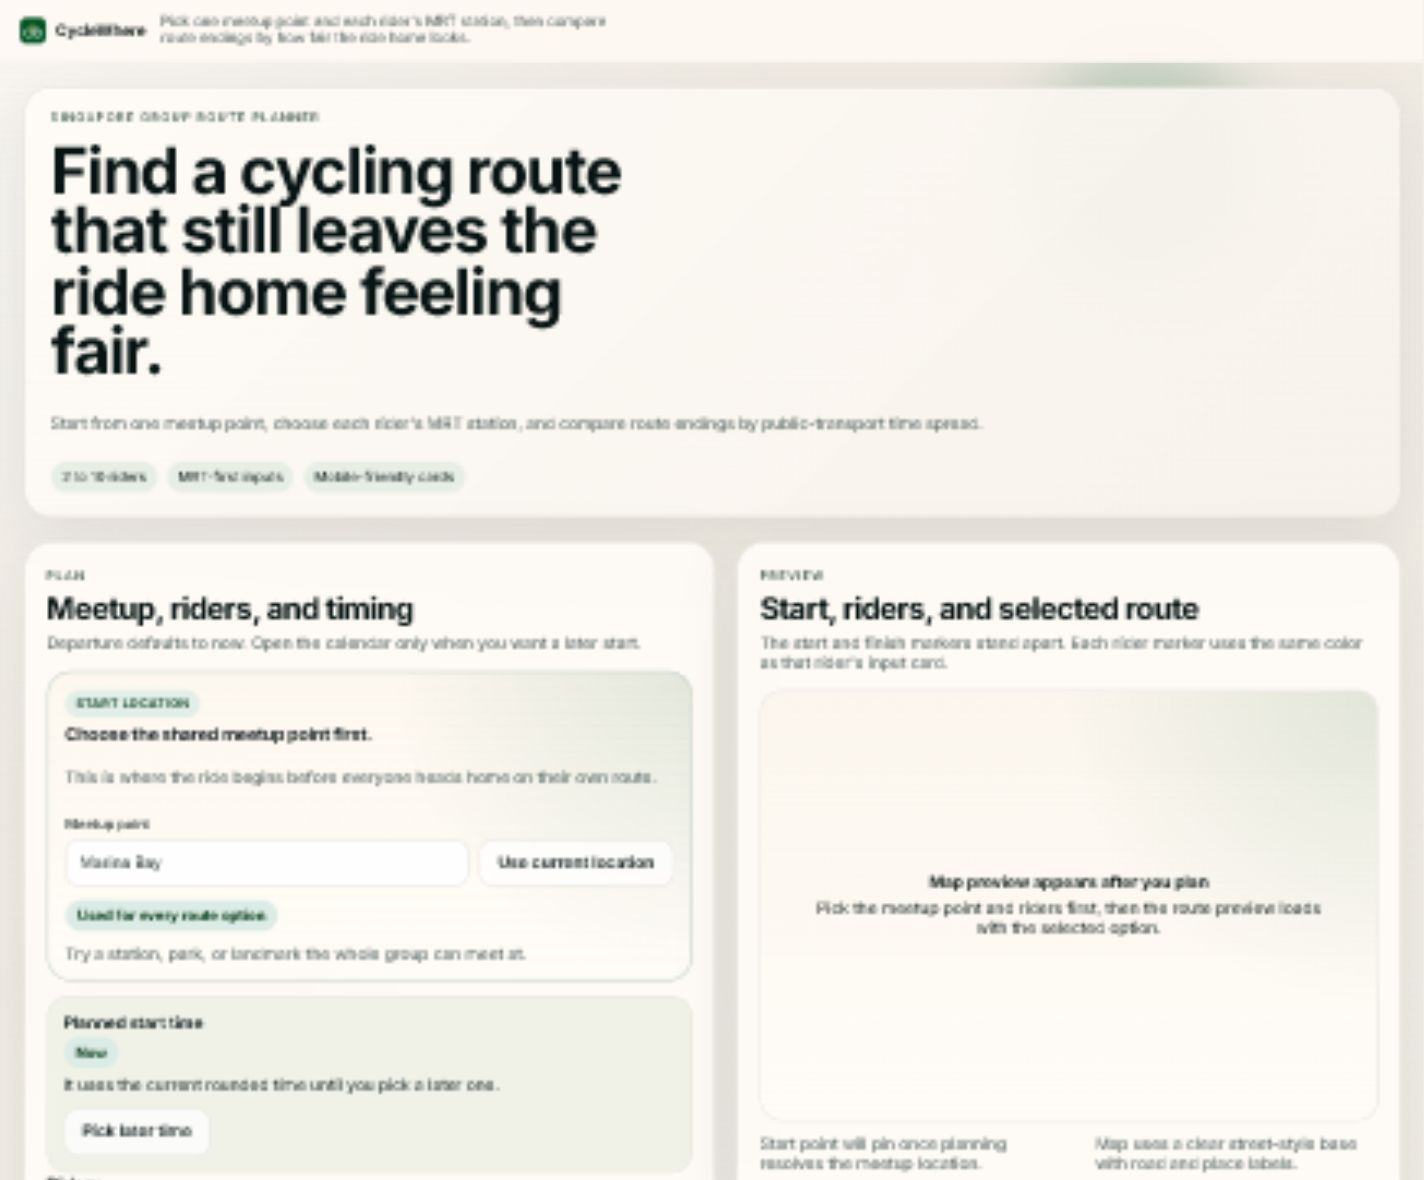
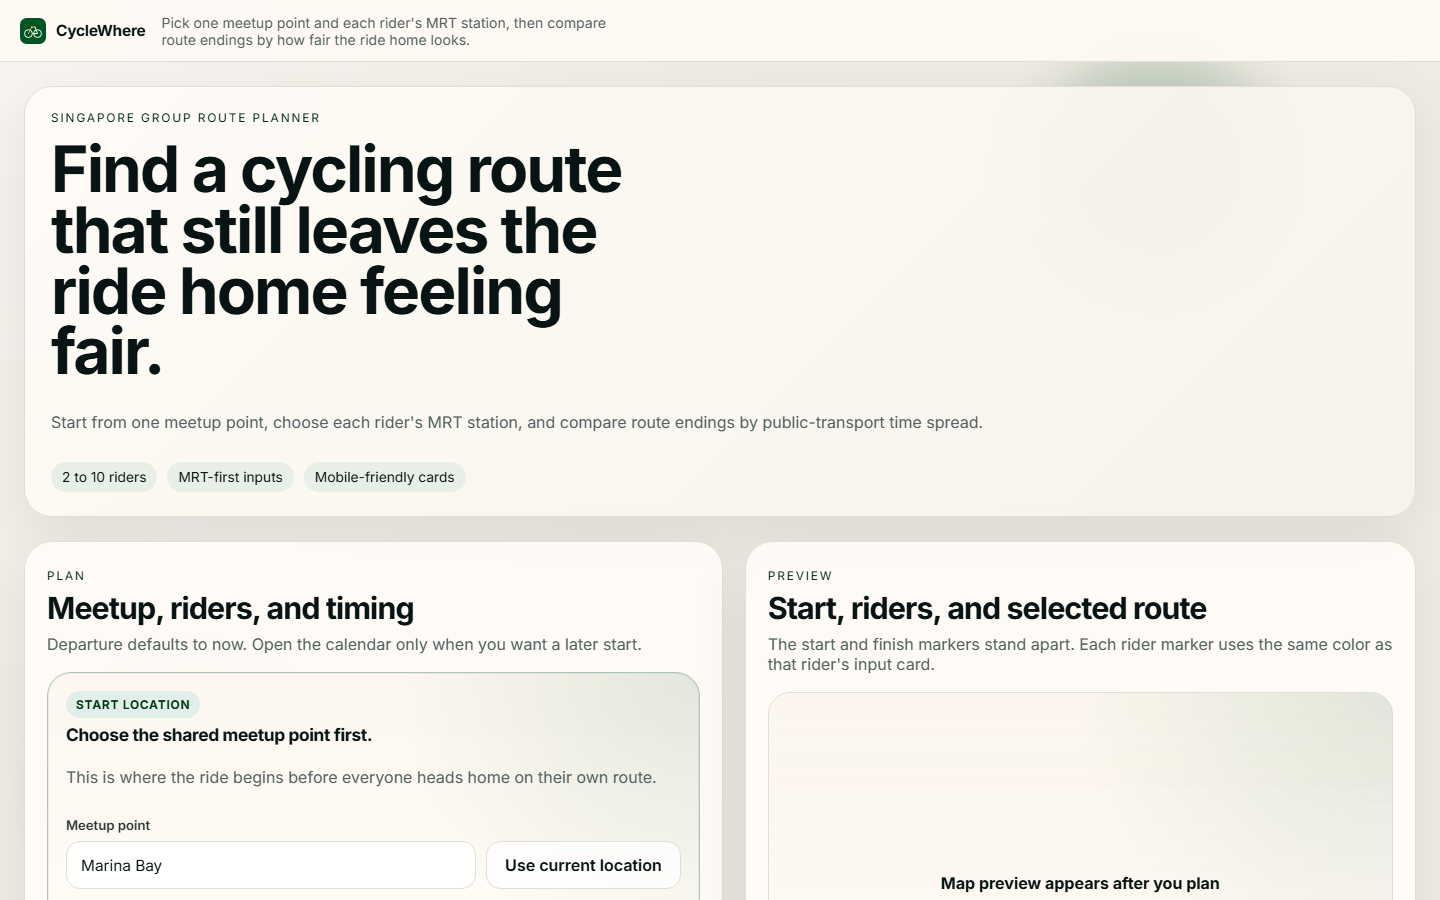
new README pic, plus other stuffs

diff --git a/src/App.tsx b/src/App.tsx
@@ -317,7 +317,7 @@ function RouteCard({
           </div>
           <p>{routeDirectionLabel(route, startLabel)}</p>
           <div className="chip-row">
-            {bestFairnessRouteId === route.id ? <span className="chip">Best fairness in section</span> : null}
+            {bestFairnessRouteId === route.id ? <span className="chip">Best overall in section</span> : null}
             <span className="chip">{route.fairnessSource === "exact" ? "Exact fairness" : "Estimated fairness"}</span>
             {route.origin === "named-route" ? <span className="chip">Named official route</span> : null}
             {route.officialRouteSurface === "mixed" ? <span className="chip">Mixed surface</span> : null}
@@ -427,10 +427,25 @@ export function App() {
     resolve: (value: PlannedRoutes) => void;
     reject: (reason?: unknown) => void;
   } | null>(null);
+  const filterButtonRef = useRef<HTMLButtonElement>(null);
+  const filterDialogRef = useRef<HTMLDialogElement>(null);
 
   useEffect(() => {
     document.documentElement.dataset.theme = "neutral-ink";
   }, []);
+
+  useEffect(() => {
+    const dialog = filterDialogRef.current;
+    if (showRouteFilters && dialog && !dialog.open) {
+      dialog.showModal();
+    }
+  }, [showRouteFilters]);
+
+  function closeRouteFilters() {
+    filterDialogRef.current?.close();
+    setShowRouteFilters(false);
+    filterButtonRef.current?.focus();
+  }
 
   useEffect(() => {
     worker.onmessage = (event: MessageEvent<WorkerResponse>) => {
@@ -1228,8 +1243,8 @@ export function App() {
             <div className="note-box">
               <strong>Fairness first.</strong>
               <span>
-                The main score is the difference between the longest and shortest trip home.
-                Standard deviation breaks ties, then verified-network coverage helps separate close options.
+                Routes stay in fairness bands. Within each band, a shorter average journey home ranks first,
+                followed by the difference between the longest and shortest trips home.
               </span>
             </div>
           </section>
@@ -1304,7 +1319,12 @@ export function App() {
             {results ? (
               <>
                 <div className="results-toolbar">
-                  <button type="button" className="secondary-button" onClick={() => setShowRouteFilters(true)}>
+                  <button
+                    ref={filterButtonRef}
+                    type="button"
+                    className="secondary-button"
+                    onClick={() => setShowRouteFilters(true)}
+                  >
                     Filter routes
                   </button>
                   <div className="results-toolbar-copy">
@@ -1328,7 +1348,7 @@ export function App() {
                             ? "These have exact ride-home checks and the strongest fairness after route quality is applied."
                             : section.id === "more-route-options"
                               ? "Useful backups when you want a different distance or finish. Estimated fairness stays here until exact checks run."
-                              : "These only appear for larger groups when most riders stay close together but one rider stretches the trip home."}
+                              : "These exceed the usual fairness target, but remain visible so difficult groups still have honest options."}
                         </p>
                       </div>
                     </div>
@@ -1380,21 +1400,32 @@ export function App() {
       </div>
 
       {showRouteFilters ? (
-        <div className="sheet-backdrop" role="presentation" onClick={() => setShowRouteFilters(false)}>
-          <div
-            className="filter-sheet"
-            role="dialog"
-            aria-modal="true"
-            aria-label="Route filters"
-            onClick={(event) => event.stopPropagation()}
-          >
+        <dialog
+          ref={filterDialogRef}
+          className="filter-sheet"
+          aria-label="Route filters"
+          onCancel={(event) => {
+            event.preventDefault();
+            closeRouteFilters();
+          }}
+          onKeyDown={(event) => {
+            if (event.key === "Escape") {
+              closeRouteFilters();
+            }
+          }}
+          onClick={(event) => {
+            if (event.target === event.currentTarget) {
+              closeRouteFilters();
+            }
+          }}
+        >
             <div className="filter-sheet-handle" />
             <div className="filter-sheet-head">
               <div>
                 <strong>Filter routes</strong>
                 <p>Show only routes that match your distance and fairness targets.</p>
               </div>
-              <button type="button" className="icon-button" onClick={() => setShowRouteFilters(false)} aria-label="Close filters">
+              <button type="button" className="icon-button" onClick={closeRouteFilters} aria-label="Close filters">
                 &times;
               </button>
             </div>
@@ -1431,12 +1462,11 @@ export function App() {
               <button type="button" className="secondary-button" onClick={resetRouteFilters}>
                 Reset
               </button>
-              <button type="button" className="primary-button dark" onClick={() => setShowRouteFilters(false)}>
+              <button type="button" className="primary-button dark" onClick={closeRouteFilters}>
                 Show {allRouteCount || totalRouteCount} routes
               </button>
             </div>
-          </div>
-        </div>
+        </dialog>
       ) : null}
     </>
   );

diff --git a/tests/planner.test.ts b/tests/planner.test.ts
@@ -142,6 +142,46 @@ describe("planner", () => {
     expect(routes.sections[0]?.routes[0]?.id).toBe("best");
   });
 
+  it("prefers a fair route with a shorter journey home and keeps uneven alternatives", () => {
+    const routes = planRoutes({
+      candidates: [
+        routeCandidate({ id: "equal-but-remote", overlapSignature: ["remote"] }),
+        routeCandidate({ id: "homeward", overlapSignature: ["homeward"] }),
+        routeCandidate({ id: "stretched", overlapSignature: ["stretched"] }),
+        routeCandidate({ id: "uneven", overlapSignature: ["uneven"] })
+      ],
+      participants: [
+        participant("a", "A", 1.35, 103.84),
+        participant("b", "B", 1.36, 103.85),
+        participant("c", "C", 1.37, 103.86)
+      ],
+      startTimeIso: "2026-06-18T18:30:00.000Z",
+      transitOverrides: {
+        "equal-but-remote::a": 90,
+        "equal-but-remote::b": 91,
+        "equal-but-remote::c": 92,
+        "homeward::a": 18,
+        "homeward::b": 22,
+        "homeward::c": 26,
+        "stretched::a": 80,
+        "stretched::b": 90,
+        "stretched::c": 105,
+        "uneven::a": 15,
+        "uneven::b": 40,
+        "uneven::c": 55
+      }
+    });
+
+    expect(routes.sections[0]?.routes.map((route) => route.id).slice(0, 2)).toEqual([
+      "homeward",
+      "equal-but-remote"
+    ]);
+    expect(routes.sections.flatMap((section) => section.routes.map((route) => route.id))).toContain("uneven");
+    expect(
+      routes.sections.find((section) => section.id === "more-route-options")?.routes.map((route) => route.id)
+    ).toEqual(["stretched", "uneven"]);
+  });
+
   it("keeps similar routes from crowding out distance variety", () => {
     const routes = planRoutes({
       candidates: [

diff --git a/src/lib/planner.ts b/src/lib/planner.ts
@@ -89,15 +89,23 @@ function confidenceRank(coverage = 0) {
   return 0;
 }
 
+function fairnessBandRank(spreadMinutes: number) {
+  return spreadMinutes <= 20 ? 0 : spreadMinutes <= 30 ? 1 : 2;
+}
+
 function compareRoutes(a: RoutePlan, b: RoutePlan) {
+  const fairnessBandDelta = fairnessBandRank(a.fairnessSpreadMinutes) - fairnessBandRank(b.fairnessSpreadMinutes);
+  if (fairnessBandDelta !== 0) {
+    return fairnessBandDelta;
+  }
+  if (a.averageJourneyHomeMinutes !== b.averageJourneyHomeMinutes) {
+    return a.averageJourneyHomeMinutes - b.averageJourneyHomeMinutes;
+  }
   if (a.fairnessSpreadMinutes !== b.fairnessSpreadMinutes) {
     return a.fairnessSpreadMinutes - b.fairnessSpreadMinutes;
   }
   if (a.fairnessStdDeviationMinutes !== b.fairnessStdDeviationMinutes) {
     return a.fairnessStdDeviationMinutes - b.fairnessStdDeviationMinutes;
-  }
-  if (a.averageJourneyHomeMinutes !== b.averageJourneyHomeMinutes) {
-    return a.averageJourneyHomeMinutes - b.averageJourneyHomeMinutes;
   }
   if (a.fairnessSource !== b.fairnessSource) {
     return a.fairnessSource === "exact" ? -1 : 1;
@@ -284,16 +292,15 @@ export function planRoutes(input: PlannerInput): PlannedRoutes {
     section: toFairnessSection(route)
   }));
 
-  const validRoutes = scored.filter((route) => route.fairnessSpreadMinutes <= 30);
   const bestFairRoutes = selectDiverseRoutes(
-    validRoutes.filter((route) => route.section === "best-fair-routes")
+    scored.filter((route) => route.section === "best-fair-routes")
   );
   const usedBestFair = new Set(bestFairRoutes.map((route) => route.id));
   const moreRouteOptions = selectDiverseRoutes(
-    validRoutes
+    scored
       .filter((route) => route.section === "more-route-options")
       .concat(
-        validRoutes.filter((route) => route.section === "best-fair-routes" && !usedBestFair.has(route.id))
+        scored.filter((route) => route.section === "best-fair-routes" && !usedBestFair.has(route.id))
       )
       .filter((route) => !bestFairRoutes.some((selected) => similarRoute(selected, route)))
   );

diff --git a/src/styles.css b/src/styles.css
@@ -274,25 +274,21 @@ a {
   background: var(--surface-strong);
 }
 
-.sheet-backdrop {
-  position: fixed;
-  inset: 0;
-  z-index: 80;
-  display: flex;
-  align-items: flex-end;
-  justify-content: center;
-  padding: 16px;
-  background: rgba(18, 24, 29, 0.2);
-}
-
 .filter-sheet {
   width: min(100%, 520px);
+  max-width: calc(100% - 32px);
   display: grid;
   gap: 16px;
+  margin: auto auto 0;
   padding: 14px 18px 18px;
+  border: 0;
   border-radius: 24px 24px 0 0;
   background: rgba(255, 250, 244, 0.98);
   box-shadow: var(--shadow-card);
+}
+
+.filter-sheet::backdrop {
+  background: rgba(18, 24, 29, 0.2);
 }
 
 .filter-sheet-handle {

diff --git a/src/lib/api.ts b/src/lib/api.ts
@@ -116,7 +116,10 @@ export async function discoverCyclingRoutes(request: DiscoverRoutesRequest) {
         curatedCandidates: payload.curatedCandidates ?? []
       };
     }
-  } catch {
+  } catch (error) {
+    if ((error as { code?: string })?.code === "STALE_NETWORK_VERSION") {
+      throw error;
+    }
     // Fall back to curated-only planning.
   }
 